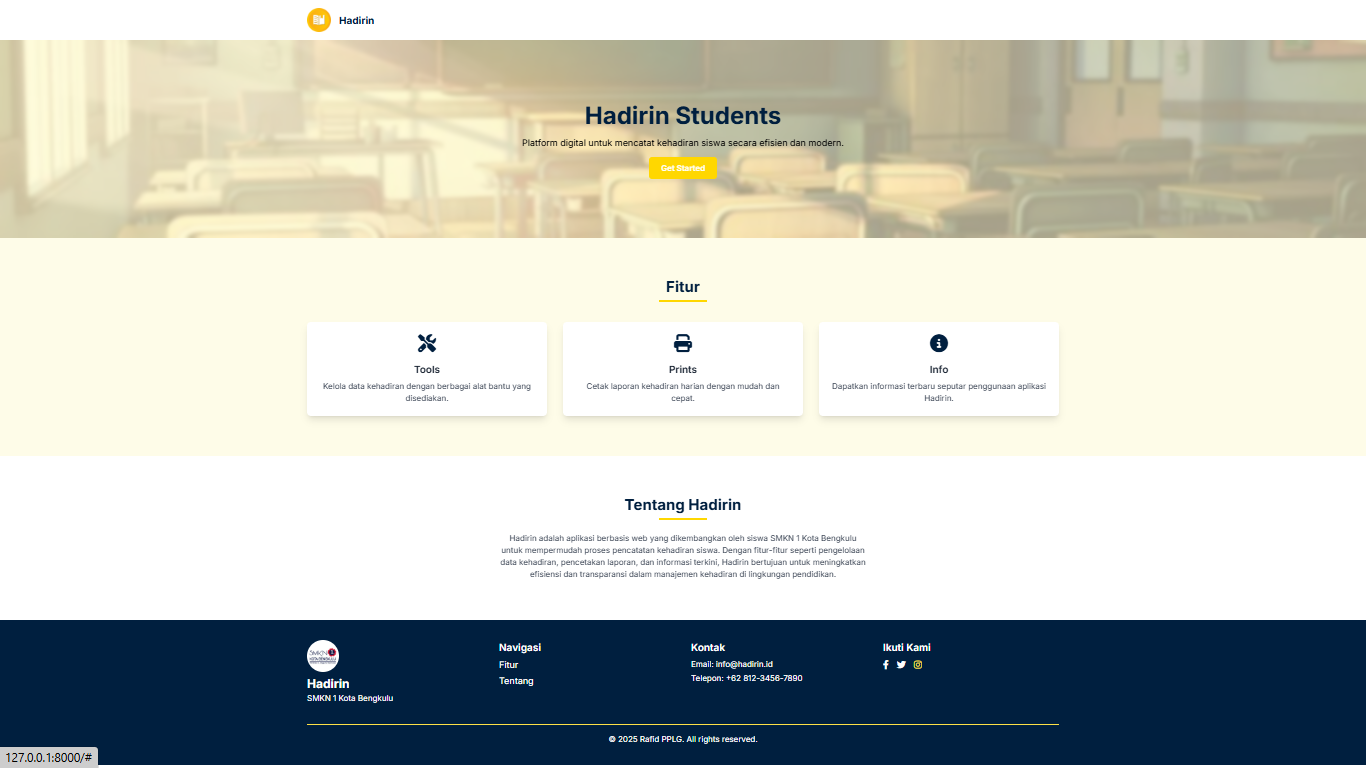
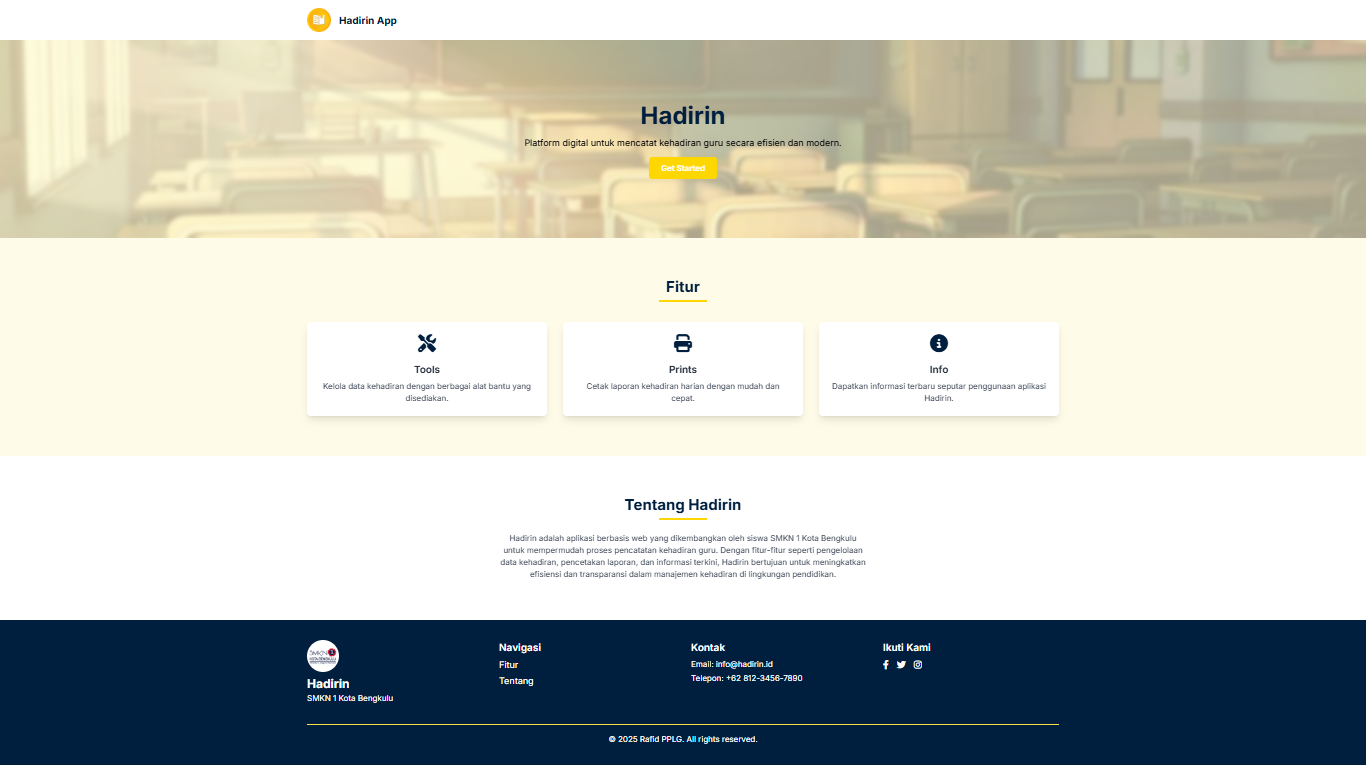
Sedikit perbaikan

diff --git a/resources/views/layouts/app.blade.php b/resources/views/layouts/app.blade.php
@@ -1,55 +1,55 @@
 <!DOCTYPE html>
 <html lang="id">
 <head>
-    <meta charset="UTF-8">
-    <meta name="viewport" content="width=device-width, initial-scale=1.0">
-    <title>@yield('title', 'Aplikasi Hadirin')</title>
-    <link rel="icon" href="{{ asset('images/ic_hadirin.png') }}" type="image/x-icon">
-    @vite('resources/css/app.css')
-    <link href="https://cdn.jsdelivr.net/npm/bootstrap@5.3.0/dist/css/bootstrap.min.css" rel="stylesheet" />
-    <link href="https://cdn.jsdelivr.net/npm/select2@4.1.0-rc.0/dist/css/select2.min.css" rel="stylesheet" />
-    <!-- AOS Library -->
-    <link href="https://unpkg.com/aos@2.3.1/dist/aos.css" rel="stylesheet" />
-    <style>
-      .back-button {
-        transition: all 0.3s ease-in-out;
-      }
-      .back-button:hover {
-        background-color: #FFD700 !important;
-        color: #000000 !important;
-      }
-      .nav-link {
-        position: relative;
-        display: inline-block;
-        transition: color 0.3s ease;
-        color: #ffffff;
-        font-weight: 600;
-        font-size: 0.875rem; /* Tailwind text-sm */
-      }
-      .nav-link::after {
-        content: '';
-        position: absolute;
-        left: 0;
-        bottom: -2px;
-        width: 0;
-        height: 2px;
-        background-color: #FFD700;
-        transition: width 0.4s ease-in-out;
-      }
-      .nav-link:hover {
-        color: #FFD700 !important;
-      }
-      .nav-link:hover::after {
-        width: 100%;
-      }
-    </style>
+  <meta charset="UTF-8">
+  <meta name="viewport" content="width=device-width, initial-scale=1.0">
+  <title>@yield('title', 'Aplikasi Hadirin')</title>
+  <link rel="icon" href="{{ asset('images/ic_hadirin.png') }}" type="image/x-icon">
+  @vite('resources/css/app.css')
+  <link href="https://cdn.jsdelivr.net/npm/bootstrap@5.3.0/dist/css/bootstrap.min.css" rel="stylesheet" />
+  <link href="https://cdn.jsdelivr.net/npm/select2@4.1.0-rc.0/dist/css/select2.min.css" rel="stylesheet" />
+  <link href="https://unpkg.com/aos@2.3.1/dist/aos.css" rel="stylesheet" />
+  <style>
+    .back-button {
+      transition: all 0.3s ease-in-out;
+    }
+    .back-button:hover {
+      background-color: #FFD700 !important;
+      color: #000000 !important;
+    }
+    .nav-link {
+      position: relative;
+      display: inline-block;
+      transition: color 0.3s ease;
+      color: #ffffff;
+      font-weight: 600;
+      font-size: 0.875rem;
+      padding: 0.5rem 1rem;
+    }
+    .nav-link::after {
+      content: '';
+      position: absolute;
+      left: 0;
+      bottom: -2px;
+      width: 0;
+      height: 2px;
+      background-color: #FFD700;
+      transition: width 0.4s ease-in-out;
+    }
+    .nav-link:hover {
+      color: #FFD700 !important;
+    }
+    .nav-link:hover::after {
+      width: 100%;
+    }
+  </style>
 </head>
 <body class="bg-white text-gray-900" data-aos="fade-in" data-aos-duration="800">
 
   <!-- HEADER -->
   <header class="bg-black text-white py-8 h-64" data-aos="fade-down" data-aos-duration="800">
     <div class="absolute inset-0 flex flex-col justify-center items-center text-center px-4">
-      <h1 class="text-3xl font-bold mb-2" data-aos="zoom-in" data-aos-delay="200">Dashboard Page Hadirin</h1>
+      <h1 class="text-3xl font-bold mb-2" data-aos="zoom-in" data-aos-delay="200">Dashboard Hadirin</h1>
       <p class="text-gray-300 text-sm" data-aos="fade-up" data-aos-delay="400">Selamat datang! Pilih menu di bawah untuk mengakses halaman.</p>
     </div>
     <!-- Back Button -->
@@ -67,23 +67,42 @@
   <nav class="bg-gray-800 py-3" data-aos="fade-up" data-aos-duration="800" data-aos-delay="300">
     <div class="container mx-auto px-4">
       <ul class="flex flex-wrap justify-center gap-4">
-        @php
-          $items = [
-            ['route'=>'kegiatans.index','label'=>'Kegiatan'],
-            ['route'=>'kehadirans.index','label'=>'Kehadiran'],
-            ['route'=>'kehadirans.scanQrForm','label'=>'Scan QR Hadir'],
-            ['route'=>'anggotas.index','label'=>'Anggota'],
-          ];
-        @endphp
-        @foreach($items as $item)
-          <li>
-            <a href="{{ route($item['route']) }}"
-               class="nav-link"
-               data-aos="fade-up" data-aos-delay="400">
-              {{ $item['label'] }}
-            </a>
-          </li>
-        @endforeach
+        @if(isset($category) && $category === 'prints')
+          @php
+            $printItems = [
+              ['route' => 'prints.daily.form', 'label' => 'Daily'],
+              ['route' => 'prints.monthly.form', 'label' => 'Monthly'],
+              ['route' => 'prints.annual.form', 'label' => 'Yearly'],
+            ];
+          @endphp
+          @foreach($printItems as $item)
+            <li>
+              <a href="{{ route($item['route']) }}"
+                class="nav-link"
+                data-aos="fade-up" data-aos-delay="400">
+                {{ $item['label'] }}
+              </a>
+            </li>
+          @endforeach
+        @else
+          @php
+            $items = [
+              ['route'=>'kegiatans.index','label'=>'Kegiatan'],
+              ['route'=>'kehadirans.index','label'=>'Kehadiran'],
+              ['route'=>'kehadirans.scanQrForm','label'=>'Scan QR Hadir'],
+              ['route'=>'anggotas.index','label'=>'Anggota'],
+            ];
+          @endphp
+          @foreach($items as $item)
+            <li>
+              <a href="{{ route($item['route']) }}"
+                class="nav-link"
+                data-aos="fade-up" data-aos-delay="400">
+                {{ $item['label'] }}
+              </a>
+            </li>
+          @endforeach
+        @endif
       </ul>
     </div>
   </nav>

diff --git a/resources/views/welcome.blade.php b/resources/views/welcome.blade.php
@@ -50,7 +50,7 @@
     <div class="container mx-auto px-4 flex items-center justify-between">
       <div class="flex items-center space-x-4">
         <img src="{{ asset('images/ic_hadirin.png') }}" alt="Logo" class="w-12 h-12" />
-        <h1 class="text-xl font-bold text-[#001F3F] dark:text-yellow-400">Hadirin</h1>
+        <h1 class="text-xl font-bold text-[#001F3F] dark:text-yellow-400">Hadirin App</h1>
       </div>
     </div>
   </header>
@@ -63,10 +63,10 @@
     <div class="absolute inset-0 bg-yellow-100 bg-opacity-60 backdrop-blur-sm"></div>
     <div class="relative container mx-auto px-4 text-center" data-aos="fade-up">
       <h1 class="text-3xl md:text-5xl font-bold leading-tight mb-4 text-[#001F3F] dark:text-yellow-400">
-        Hadirin Students
+        Hadirin
       </h1>
       <p class="text-base md:text-lg mb-6 max-w-2xl mx-auto text-black dark:text-gray-300">
-        Platform digital untuk mencatat kehadiran siswa secara efisien dan modern.
+        Platform digital untuk mencatat kehadiran guru secara efisien dan modern.
       </p>
       <a
         href="#features"
@@ -130,7 +130,7 @@
       <div class="w-24 h-1 bg-[#FFD700] mx-auto mb-6"></div>
       <p class="text-base text-gray-700 dark:text-gray-300">
         Hadirin adalah aplikasi berbasis web yang dikembangkan oleh siswa SMKN 1 Kota Bengkulu untuk
-        mempermudah proses pencatatan kehadiran siswa. Dengan fitur-fitur seperti pengelolaan data kehadiran,
+        mempermudah proses pencatatan kehadiran guru. Dengan fitur-fitur seperti pengelolaan data kehadiran,
         pencetakan laporan, dan informasi terkini, Hadirin bertujuan untuk meningkatkan efisiensi dan
         transparansi dalam manajemen kehadiran di lingkungan pendidikan.
       </p>
